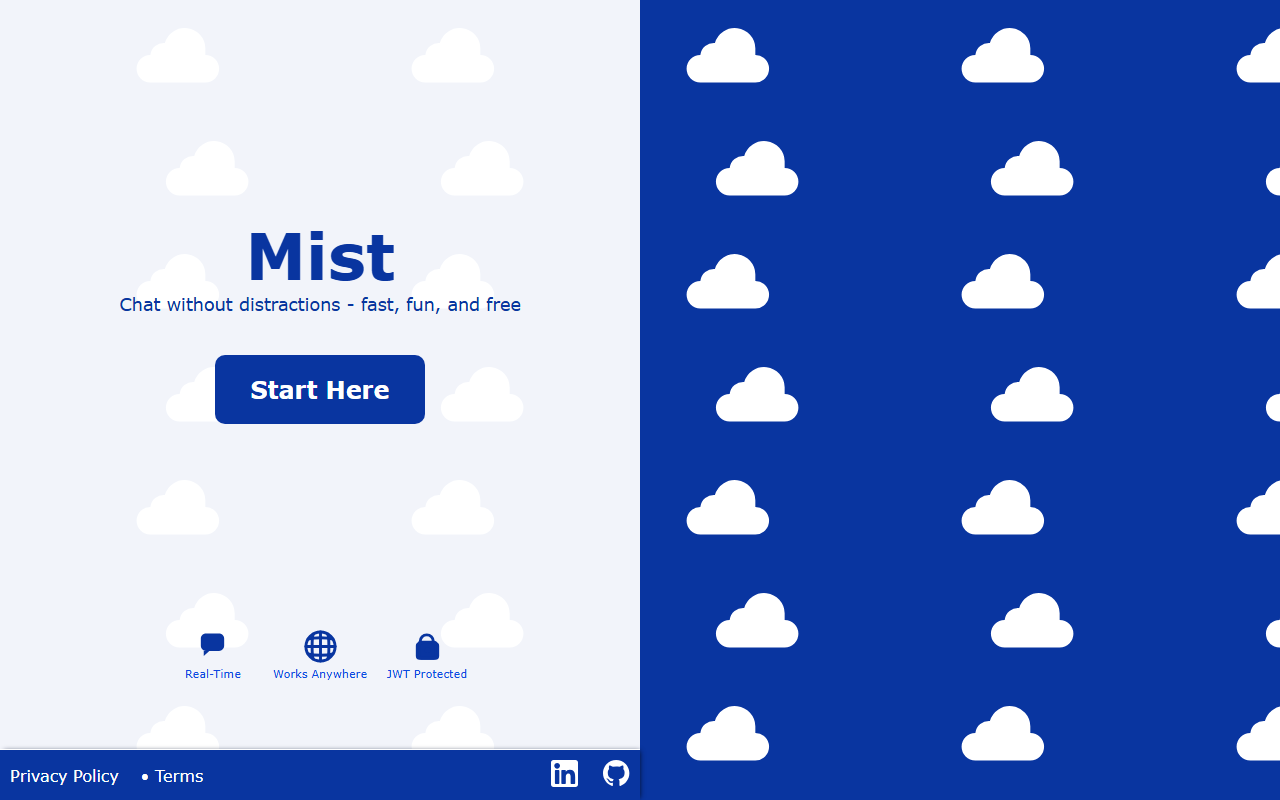
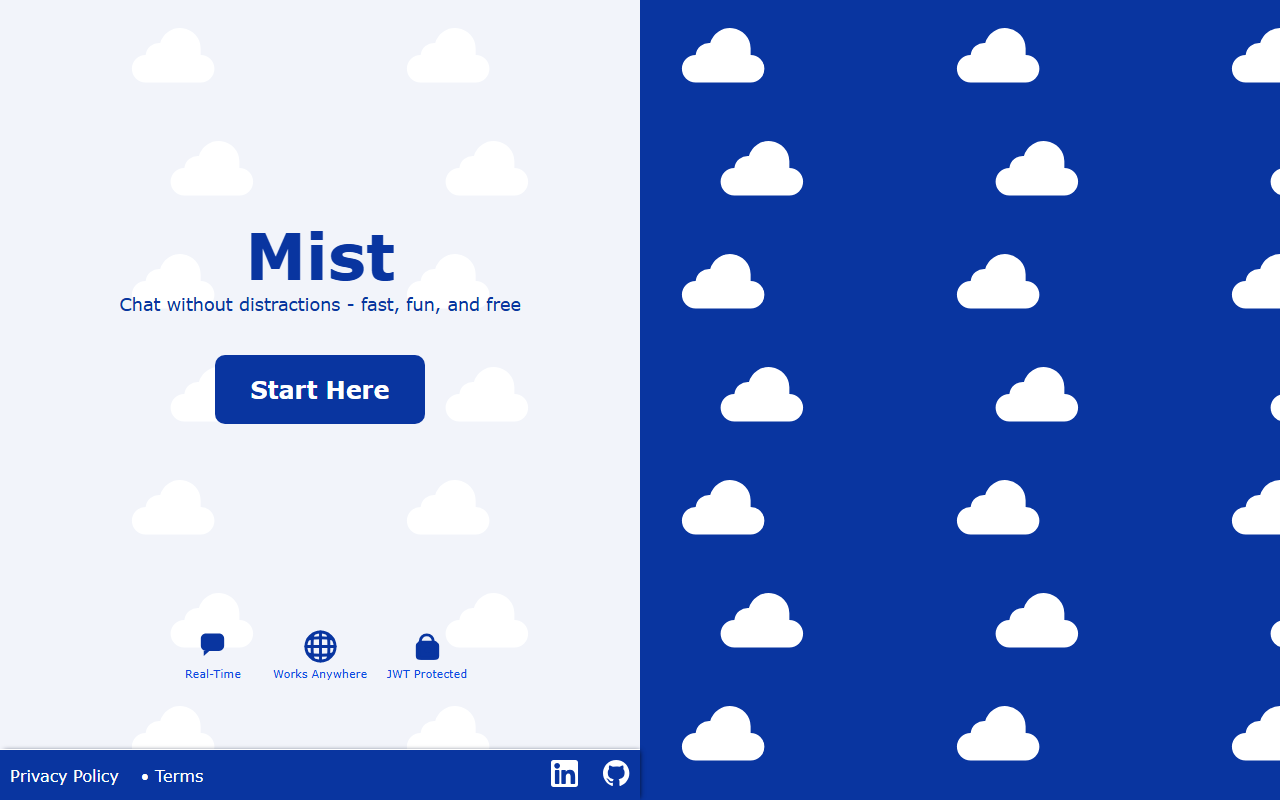
adding previews to projects

diff --git a/index.html b/index.html
@@ -4,16 +4,6 @@
     <meta charset="UTF-8" />
     <meta name="viewport" content="width=device-width, initial-scale=1.0" />
     <title>Kelvin Ohaya</title>
-    <style>
-      html,
-      body {
-        height: 100%;
-        margin: 0;
-      }
-      #root {
-        height: 100%;
-      }
-    </style>
   </head>
 
   <body>

diff --git a/src/app/components/AllProjectsPage.tsx b/src/app/components/AllProjectsPage.tsx
@@ -61,6 +61,7 @@ export function AllProjectsPage({
   toggleDarkMode,
 }: AllProjectsPageProps) {
   const navigate = useNavigate();
+  const fallbackImage = "/favicon.svg";
 
   useEffect(() => {
     window.scrollTo({ top: 0, behavior: "instant" });
@@ -129,6 +130,11 @@ export function AllProjectsPage({
                     src={`/screenshots/live/${project.title.toLowerCase().replace(/[^a-z0-9]+/g, "-")}-desktop.png`}
                     alt={project.title}
                     className="w-full h-full object-cover"
+                    onError={(e) => {
+                      const img = e.currentTarget;
+                      img.onerror = null;
+                      img.src = fallbackImage;
+                    }}
                   />
                 </picture>
               </div>

diff --git a/src/app/components/Projects.tsx b/src/app/components/Projects.tsx
@@ -43,6 +43,7 @@ const featuredProjects = [
 
 export function Projects() {
   const navigate = useNavigate();
+  const fallbackImage = "/favicon.svg";
 
   return (
     <section id="projects" className="py-24 px-6 bg-muted/30">
@@ -78,6 +79,11 @@ export function Projects() {
                       src={`/screenshots/live/${project.title.toLowerCase().replace(/[^a-z0-9]+/g, "-")}-desktop.png`}
                       alt={project.title}
                       className="w-full h-full object-cover"
+                      onError={(e) => {
+                        const img = e.currentTarget;
+                        img.onerror = null;
+                        img.src = fallbackImage;
+                      }}
                     />
                   </picture>
                 </div>